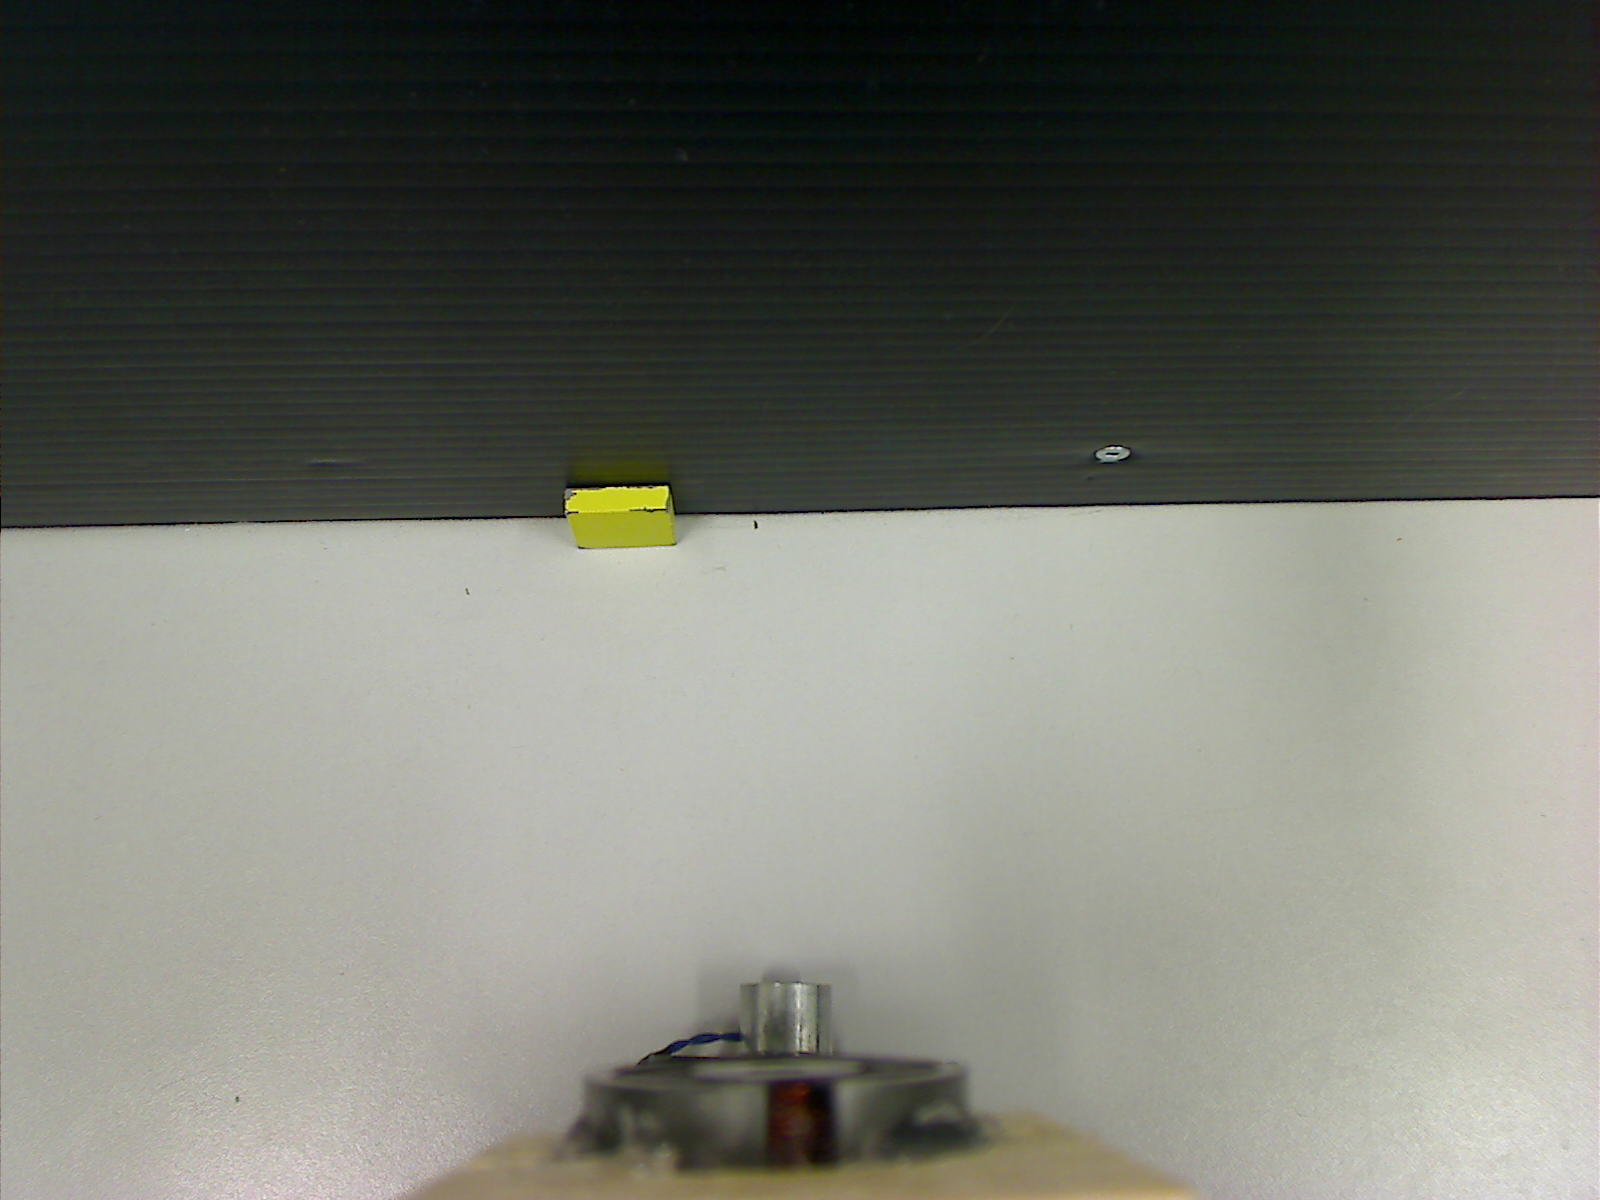
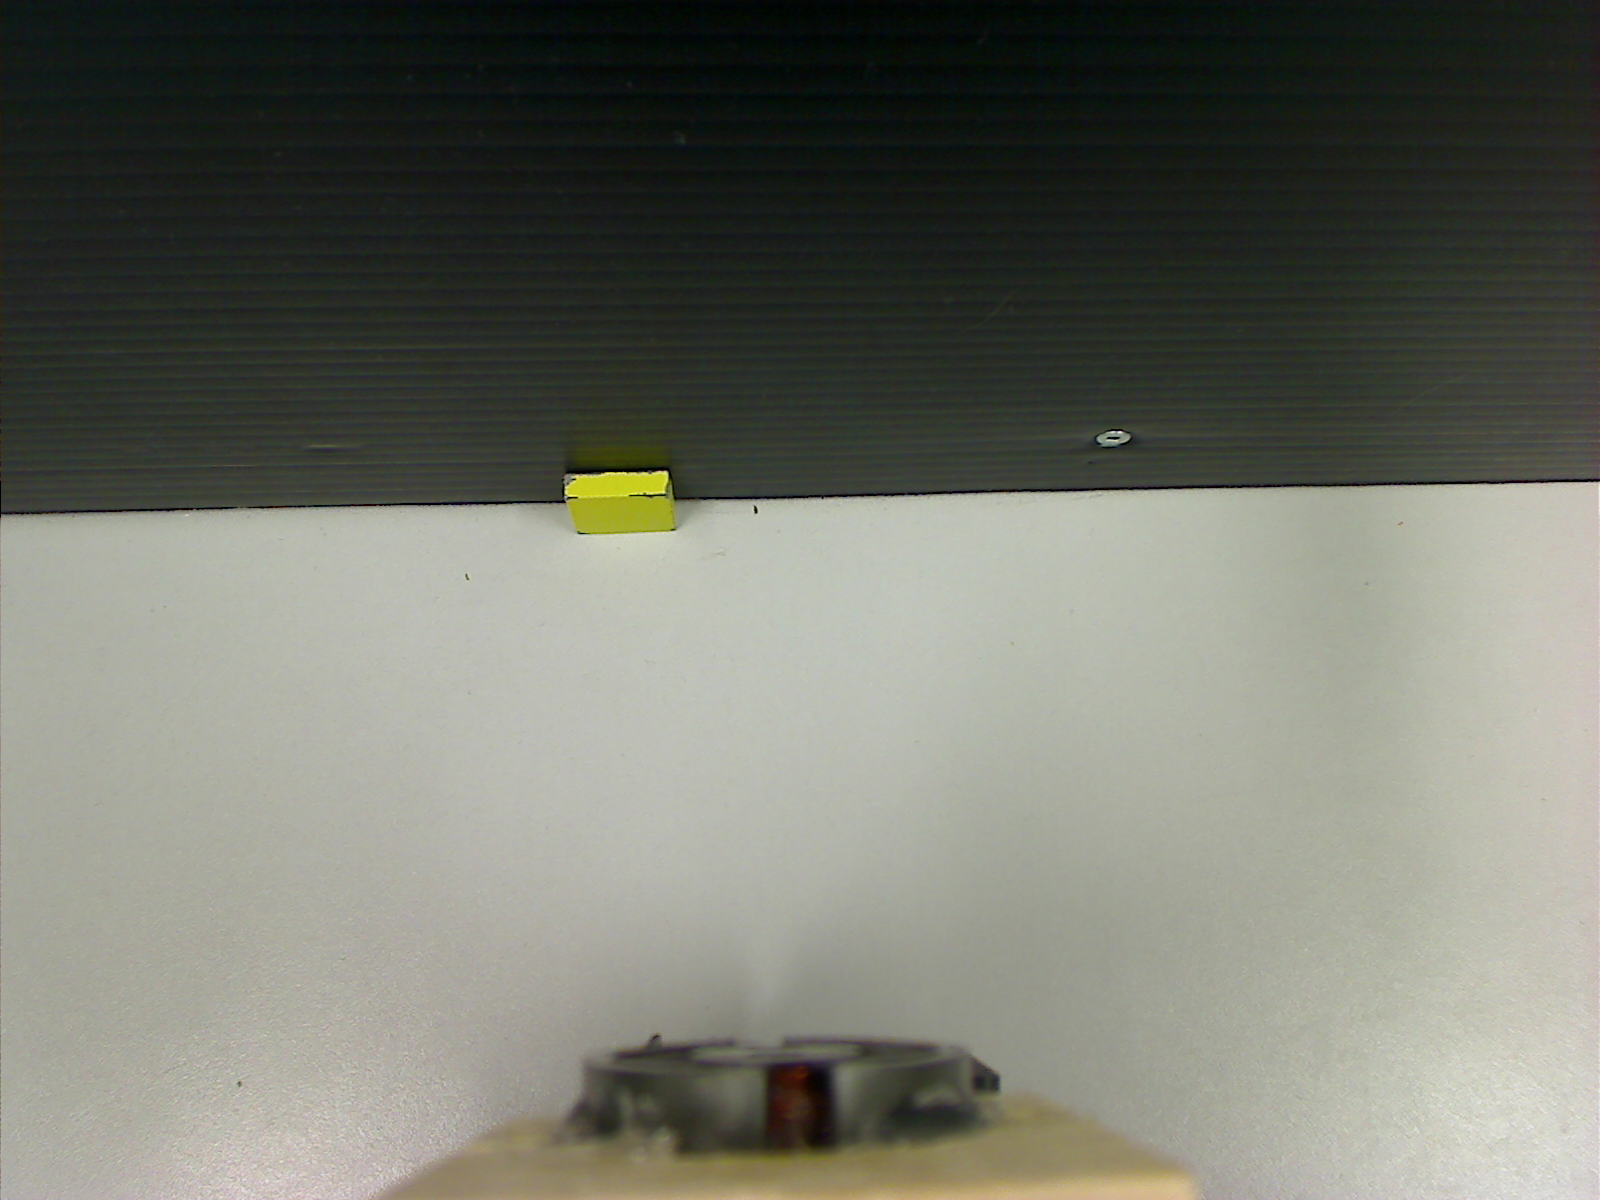
Changement intervalle couleur tresor

Changed region(s): [[0.2188, 0.8017, 0.75, 1.0], [0.0, 0.3392, 1.0, 0.4625]]

diff --git a/glo/BlackPearl/robot/vision/DetectionTresor.py b/glo/BlackPearl/robot/vision/DetectionTresor.py
@@ -92,6 +92,6 @@ class DetectionTresor(object):
         cv2.circle(self.imageCamera, self.positionZone, self.rayonZone, (0, 255, 0), 2)
 
     def _definirIntervallesCouleurs(self):
-        self.intervalleJaune = np.array([0, 0, 0]), np.array([255, 255, 255]), "Jaune"
-        #self.intervalleJaune = np.array([0, 90, 90]), np.array([60, 255, 255]), "Jaune"
+        #self.intervalleJaune = np.array([0, 0, 0]), np.array([255, 255, 255]), "Jaune"
+        self.intervalleJaune = np.array([0, 90, 90]), np.array([80, 255, 255]), "Jaune"
 
